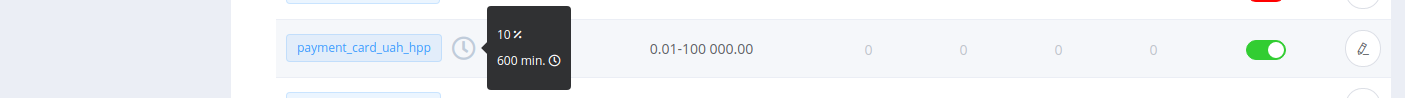
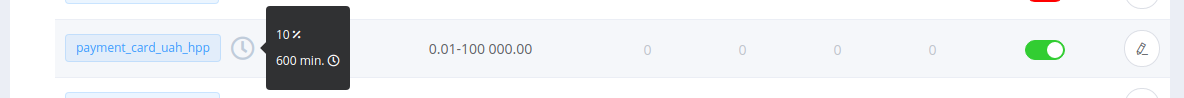
edit rn 1.14-1.15

diff --git a/docs/release-notes/v1.14.md b/docs/release-notes/v1.14.md
@@ -1,4 +1,4 @@
-# **PayCore.io v1.14 (June 19, 2020)**
+# **PayCore.io v1.14 (June 9, 2020)**
 
 *By Dmytro Dziubenko, Chief Technology Officer*
 
@@ -10,12 +10,17 @@ These notes provide a brief overview of the new features, enhancements, and othe
 
 ## Highlights
 
-* [Rolling Reserve](#rolling-reserve): added possibility to withhold part of the funds before releasing to the merchant
-* [New Integration](#new-integration): VCreditos wallet payments and payouts, 
+* [Commerce Enhancements](#commerce-enhancements): added possibility to withhold part of the funds before releasing to the merchant and to include the minimum required balance for the currency account; restrictions on transfers between commerce accounts, and resolutions related to payout schemes usage
+* [Merchant Application update](#merchant-application-settings-update): added custom roles to account settings and the session limit to Merchant Portal configuration
+* [Card Gate Update](#card-gate-update): added metadata modifier, a cap limit increase to 100,000 UAH for payouts
+* [New Integrations](#new-integrations): LiqPay non-CVV payments, VCreditos wallet payments and payouts, bank transfers as manual payouts
+* [And other minor performance improvements](#performance-improvements)
 
 ## List of Changes
 
-### Rolling Reserve
+### Commerce Enhancements
+
+#### Rolling Reserve
 
 What is a *Rolling Reserve*? A rolling reserve is a type of reserves that withholds a small percentage of all of a merchant’s gross sales in a non-interest-bearing account for a predetermined amount of time before releasing the funds to the merchant. Payment processors may use rolling reserves as a risk management tactic for high-risk merchant accounts.
 
@@ -23,20 +28,79 @@ You can set up the reserve rate (in percentage) and continuance (in minutes) for
 
 ![Edit payment service](images/v1.14/setup-reserve.png)
 
-After turning-on reserve, these services are marked with a clock icon in the service scheme's list. Move the mouse over the icon to see a tooltip.
+After turning-on reserve, these services are marked with a clock icon in the service scheme's list. Move the mouse over the icon to see a tooltip about percentage and expiry date of reservation.
 
-![](images/v1.14/setup-reserve1.png)
+![With tooltip](images/v1.14/setup-reserve1.png)
 
-![](images/v1.14/reserved-amount.png)
+When we have carried out transactions using the service with rolling reserve included, the reservation data is displayed in the General overview of the corresponding payment invoice.
+
+![Reserved amount](images/v1.14/reserved-amount.png)
+
+You also can unreserve the funds manually before the expiry of the reservation. Click on the *Actions* button to unwrap the sub-menu and find the function.
 
 ![Manual Unreserve](images/v1.14/unreserve.png)
+![Manual Unreserve](images/v1.14/unreserved.png)
 
-Rate 
+#### Minimal Required Balance
 
+The Minimal Required Balance (**MRB**) is a reserve that cannot be taken out from the *Merchant Portal*. MRB can be extra saves for your merchant funds in the relevant currency. To use, you should set it for each currency account separately in *Commerce* --> *Currency accounts* settings.
 
+![MRB](images/v1.14/mrb1.png)
+
+If MRB is set or become after manual withdrawals higher than the active account balance, the amount will be highlighted in red.
+
+![MRB highlights](images/v1.14/mrb2.png)
+
+#### Transfers between Commerce Accounts
+
+Merchants can operate with fund transfers between their accounts. And to fully use this option, you should specify accounts for transfers 'from' and 'to' defined commerce accounts in the *Commerce* settings.
+
+![Ledger Transfers](images/v1.14/ledger-transfer.png)
+
+When enabled, these accounts will be displayed as available for transfers in the Merchant Portal.
+
+![Transfers](images/v1.14/ledger-transfer-app.png)
+
+#### Status Resolutions Related to Payout Schemes
+
+We have also added additional types of payout request's failed status resolutions related to payout schemes usage:
+
+* `STRATEGY_RECEIVED_NO_ROUTES` — there are no routes by the condition in the routing
+* `STRATEGY_CONFIGURED_ROUTES_WERE_FILTERED` — all rows do not match a result of filtration
+* `NO_AVAILABLE_P2P_PAYMENTS` — there are no proper p2p-payments (for р2р-routes only)
+
+Test routing and handle resolutions as hints for setting up Payout Schemes.
+
+### Merchant Application Settings Update
+
+*Merchant portal* administrators now have the opportunity to create new roles for their account users based on the existing ones.
+
+![Create New Role](images/v1.14/app-new-role.png)
+
+And in the basic configurations of the *Merchant Portal*, now you can set the time limit for user sessions (15 minutes by default).
+
+![Session limit](images/v1.14/session-limit.png)
+
+### Card Gate Update
+
+We added Metadata attribute to payment scheme modifiers. So now you can use any of the metadata keys to determine payment invoice and enable or disable CVV and 3DS checks.
+
+![Metadata Modifier](images/v1.14/metadata-modifiers.png)
+
+!!! info
+    If you make payouts to payment cards in Ukrainian hryvnias, we just want you to know about a cap limit raise up to 100,000 UAH.
 
 ### New Integrations
 
 | Provider | Name  | New features |
 |:-:|:-:|:-:|
+|     <img src="https://static.openfintech.io/payment_providers/liqpay/logo.svg?w=70" width="70px">      | [LiqPay](/connectors/liqpay/)                | non-CVV Payments                                        |
 |     <img src="https://static.openfintech.io/payment_providers/vcreditos/logo.png?w=70" width="70px">      | [VCreditos](/connectors/vcreditos/)                | Payments and Payouts                            |
+
+From now on, you can also use the [Manual connector](/connectors/manual/) for bank transfer payouts.
+
+### Performance Improvements
+
+Hope you notice an increase in the platform's productivity because we're continuously polishing our products for you.
+
+Stay tuned for the next updates!

diff --git a/docs/release-notes/v1.15.md b/docs/release-notes/v1.15.md
@@ -1,0 +1,76 @@
+# **PayCore.io v1.15 (June 23, 2020)**
+
+*By Dmytro Dziubenko, Chief Technology Officer*
+
+<img src="https://paycore.io/wp-content/uploads/2020/06/paycore_illustration_newstyle-22.06-1024x532.jpg" alt="PayCore connections" style="width: 250px; float: right; padding-left: 10px;">
+
+Cheery Greetings from [PayCore.io](https://paycore.io/)!
+
+This release of the platform allows us to provide our users with enhanced account experience, including data export and analysis. Check the highlights to learn more about updates!
+
+## Highlights
+
+* [Platform UX Enhancements](#platform-ux-enhancements): added payloads for Deposit account balances, extra fields to the Payout Overview, the layout sort parameter 'Created', actions for p2p payments, and new fields to the export grids for Deposits, Withdrawals, and Transfers
+* [Merchant Application Update](#merchant-application-settings-update): added API Key to the configuration
+* [Integration Updates](#integration-updates): CardPay and Platio instant payments 
+* [Bug Fixes and Stability Improvements](#stability-improvements)
+
+## List of Changes
+
+### Platform UX Enhancements
+
+#### The Payload for Deposit Account Balances
+
+We added the possibility to obtain the payload for *Deposit account* balances. So now, if your provider sends additional information with the balance statistics, you can find it in the appropriate section: *Connected accounts* --> [*Deposit accounts*](https://dashboard.paycore.io/provider-hub/deposit-accounts).
+
+![Balance payload](images/v1.15/deposit-acc-balance-payload.jpeg)
+
+#### Extra Fields in the Payout Overview
+
+We have attached extra fields to the Payout Overview. They display all the service parameters specified when an invoice was created.
+
+![Payout Overview](images/v1.15/pog-invoice-fields.png)
+
+#### Sort Records by Created
+
+Now the sections have an additional parameter to sort the entries by creation date. Hope, users can navigate the records more convenient now.
+
+![Created](images/v1.15/created.png)
+
+#### P2P Actions
+
+Now you have the opportunity to prioritize payment processing directly in the invoice list. After filtering by strategies, payments will be accepted for processing according to the set priority (for this, the value of priority should be higher than 0).
+
+![P2P Properties](images/v1.15/p2p-priorities.png)
+
+You can also use this menu to send payments for manual moderation.
+
+#### Additional Fields for Data Grid
+
+Also, we boosted up data export and added Commerce Account ID (`com_acc_id`) and Commerce Account Name (`com_acc_name`) to the data grid in the *Deposits*, *Withdrawals*, and *Transfers* sections.
+
+### Merchant Application Update
+
+In extension to the [previous update](/release-notes/v1.14/#merchant-application-settings-update), we also added the API key selector to the basic configuration. The selector displays description labels of the actual existent keys.
+
+![API Key](images/v1.15/API-masterkey.png)
+
+You can create a new key, edit or revoke existent in the *Organisation* --> [*Security settings: API keys*](https://dashboard.paycore.io/administration/settings/api-keys/).
+
+![New API Key](images/v1.15/new-api-key.png)
+
+### Integrations Upgrades
+
+| Provider | Name  | New features |
+|:-:|:-:|:-:|
+|     <img src="https://static.openfintech.io/payment_providers/cardpay/logo.png?w=80" width="80px">      | [CardPay](/connectors/cardpay/)                | Instant Payments                           |
+|     <img src="https://static.openfintech.io/payment_providers/platio/logo.svg?w=80" width="80px">      | [Platio](/connectors/platio/)                | Instant Payments                           |
+
+### Stability Improvements
+
+As usual, we put a lot of efforts to fix bugs and make stability improvements, and sure it's noticeable.
+
+!!! info
+    We have also reduced the time limit for dashboard user sessions to 30 days. But do not forget to check [user security settings](https://dashboard.paycore.io/user/settings/sessions) periodically, and revoke all sessions you cannot identify.
+
+Stay tuned for the next updates!

diff --git a/docs/connectors/manual/index.md b/docs/connectors/manual/index.md
@@ -2,33 +2,21 @@
 
 # Manual Connector
 
-## Introduction
+The manual connector serves as an auxiliary tool for Swift and Bank transfer payment methods. Follow the guidance for setting it up.
 
-Here You can find  instructions for setting up **Manual**  account.
+## Connect Account
 
+### Enter credentials
 
+Press **Connect** at [*Manual Provider Overview*](https://dashboard.paycore.io/connect-directory/payment-providers/manual/general) page in *'New connection'*  to open Connection form.
 
-## Connect account
+- MID &mdash; set a random unique identifier up to 32 characters
+- Methods &mdash; select the methods you want
 
-
-#### Step 1: Enter credentials
-
-- Services
-- External ID (_optional_)
-
-It should have 32 characters or less!
-
-!!! tip
-    Press **`Connect`** at Manual **`Provider Overview page`** in **`New connection`** section to open Connection form!
-
-
-!!! note
-    These parameters are set according to your choice and needs!
-
-
-
-![Connect](images/manual_connect.png)
-
+![Connect](images/manual_connect_new.png)
 
 !!! success
-    You have connected **Manual**!
+    You have connected Manual connector! Now you can use it to send and receive Swift and bank transfer transactions.
+
+!!! question "Still looking for help connecting Manual connector?"
+    [Please contact our support team!](mailto:support@paycore.io)

diff --git a/docs/products/payout-gateway/payout-schemes.md b/docs/products/payout-gateway/payout-schemes.md
@@ -80,3 +80,11 @@ P2p options help you to customise the P2P routing as efficiently as possible. Yo
 
     ??? example "Example calculation"
         Let there are processed $100 payout, and the p2p pool has $130 and $140 payments, you choose to sort transactions by *minimal remainders* and select those with a *minimal amount* $35. Based on sorting settings, the components should take $130 payment, but in that case, the $30 rest will never be paid. So, you need to set 35 as the minimal remainder to split $140 payment on $100 and $40.
+
+## Status Resolutions Related to Payout Schemes
+
+We have also added additional types of payout request's failed status resolutions related to payout schemes usage:
+
+- `STRATEGY_RECEIVED_NO_ROUTES` — there are no routes by the condition in the routing
+- `STRATEGY_CONFIGURED_ROUTES_WERE_FILTERED` — all rows do not match a result of filtration 
+- `NO_AVAILABLE_P2P_PAYMENTS` — there are no proper p2p-payments (for р2р-routes only)
